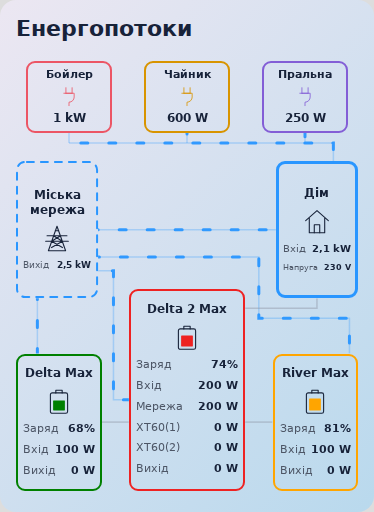
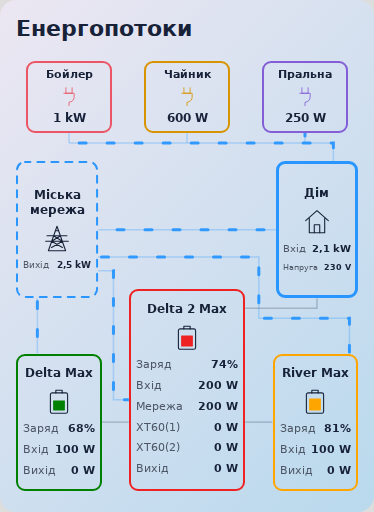
Beta 2.0.5-beta.1: restore grid-to-home flow

diff --git a/suris-ecoflow-flow-card.js b/suris-ecoflow-flow-card.js
@@ -1,8 +1,8 @@
-/* Suris EcoFlow Flow Card v2.0.4 | MIT | No external dependencies. */
+/* Suris EcoFlow Flow Card v2.0.5-beta.1 | MIT | No external dependencies. */
 (() => {
   'use strict';
   const TAG = 'suris-ecoflow-flow-card';
-  const VERSION = '2.0.4';
+  const VERSION = '2.0.5-beta.1';
   const NS = 'http://www.w3.org/2000/svg';
   let cardSequence = 0;
   const DEFAULTS = {
@@ -24,15 +24,15 @@
   Object.assign(TEXT.uk, {
     gridOff: 'Мережі немає',
     gridHint: 'Датчик необов’язковий. Якщо мережі немає, усередині її блоку блимає червоний напис «Мережі немає». Без датчика попередження приховане. Цей датчик не керує потоками.',
-    sourceHint: 'За виходом головної EcoFlow: потужність виходу на дім вище порогу — дім від EcoFlow, нижче або рівна порогу — від мережі. Датчик мережі керує лише червоним написом та не впливає на потоки. Недоступна потужність не визначає джерело.',
-    setup: 'Вибери датчик виходу головної EcoFlow на дім або її загального виходу',
+    sourceHint: 'За виходом головної EcoFlow: потужність виходу на дім вище порогу — дім від EcoFlow, нижче або рівна порогу — від мережі. Датчик мережі керує лише червоним написом та не впливає на потоки. Якщо вихід EcoFlow недоступний, додатна потужність мережі визначає живлення від мережі.',
+    sourceUnknown: 'Недостатньо даних потужності для визначення джерела дому',
     mainHint: 'Для лінії мережа → головна EcoFlow потрібна окрема потужність AC-входу. Для визначення джерела дому за виходом вибери вихід на дім; загальний вихід підходить, лише якщо станція живить тільки дім.'
   });
   Object.assign(TEXT.en, {
     gridOff: 'No grid',
     gridHint: 'The sensor is optional. When grid power is absent, a red No grid message pulses inside its block. Without a sensor the warning stays hidden. This sensor never controls flows.',
-    sourceHint: 'Main EcoFlow output: home feed power above the threshold selects EcoFlow; at or below the threshold selects grid. The grid sensor only controls the red warning and never affects flows. An unavailable output leaves the source unknown.',
-    setup: 'Select the main EcoFlow home feed or total output power sensor',
+    sourceHint: 'Main EcoFlow output: home feed power above the threshold selects EcoFlow; at or below the threshold selects grid. The grid sensor only controls the red warning and never affects flows. If EcoFlow output is unavailable, positive grid power selects the grid.',
+    sourceUnknown: 'Not enough power data to determine the home source',
     mainHint: 'Grid → main EcoFlow requires a separate AC input sensor. For output-based home source detection, select the home feed output; total output is suitable only when the station supplies the home alone.'
   });
   const t = (config) => TEXT[config?.language] || TEXT.uk;
@@ -114,7 +114,7 @@
       if (inputs.length && inputs.every(value => value != null)) main.input = inputs.reduce((sum, value) => sum + value, 0);
     }
     const positive = (value) => value != null && value > c.appearance.threshold;
-    const feedPower = p(c.main.home_feed_power || c.main.output_power);
+    const feedPower = p(c.main.home_feed_power || c.main.output_power), gridPower = p(c.grid.power);
     const gridState = c.grid.available_entity && states[c.grid.available_entity]?.state;
     const availableState = String(c.grid.available_state || 'on');
     const absentState = availableState === 'on' ? 'off' : availableState === 'off' ? 'on' : null;
@@ -122,7 +122,8 @@
     const gridAvailability = !c.grid.available_entity ? 'not_configured'
       : usableGrid && String(gridState) === availableState ? 'available'
         : usableGrid && (absentState ? String(gridState) === absentState : true) ? 'absent' : 'unknown';
-    const source = feedPower != null && feedPower >= 0 ? positive(feedPower) ? 'main' : 'grid' : 'unknown';
+    const source = positive(feedPower) ? 'main'
+      : (feedPower != null && feedPower >= 0) || positive(gridPower) ? 'grid' : 'unknown';
     const gridCharging = [
       p(c.auxiliary_1.grid_charge_power || c.auxiliary_1.input_power),
       p(c.auxiliary_2.grid_charge_power || c.auxiliary_2.input_power),
@@ -133,7 +134,6 @@
     if (!c.home.power && source === 'main') {
       homePower = feedPower; powerOrigin = 'main_output';
     } else if (!c.home.power && source === 'grid') {
-      const gridPower = p(c.grid.power);
       if (gridPower != null && gridPower >= 0) {
         homePower = Math.max(0, gridPower - gridCharging.reduce((sum, value) => sum + Math.max(0, value ?? 0), 0));
         powerOrigin = 'grid_balance';
@@ -173,7 +173,7 @@
     *{box-sizing:border-box}ha-card{display:block;overflow:hidden;background:var(--ha-card-background,var(--card-background-color,#1c1c1c));color:var(--primary-text-color,#e8e8e8);padding:16px;border-radius:var(--ha-card-border-radius,16px)}
     .wrap{container-type:inline-size}h2{font-size:22px;font-weight:600;margin:0 0 8px}.diagram{position:relative;height:clamp(540px,65cqw,720px)}
     .lines{position:absolute;inset:0;width:100%;height:100%;overflow:visible;pointer-events:none}
-    .flow path{fill:none;stroke:var(--divider-color,#60656d);stroke-width:1.5;stroke-linejoin:miter;stroke-linecap:butt;opacity:.40}.flow.active .flow-track{stroke:var(--color);opacity:.28}.flow .flow-dashes{stroke:var(--color);stroke-width:3;stroke-linecap:round;stroke-dasharray:7 21;opacity:.95;visibility:hidden}.flow.active .flow-dashes{visibility:visible}
+    .flow path{fill:none;stroke:color-mix(in srgb,var(--primary-text-color,#9aa0a6) 55%,transparent);stroke-width:1.5;stroke-linejoin:miter;stroke-linecap:butt;opacity:.40}.flow.active .flow-track{stroke:var(--color);opacity:.28}.flow .flow-dashes{stroke:var(--color);stroke-width:3;stroke-linecap:round;stroke-dasharray:7 21;opacity:.95;visibility:hidden}.flow.active .flow-dashes{visibility:visible}
     .node{position:absolute;display:flex;flex-direction:column;justify-content:center;gap:7px;min-width:0;background:transparent;background:color-mix(in srgb,var(--ha-card-background,var(--card-background-color,#1c1c1c)) 8%,transparent);border:2px solid var(--node-color,var(--divider-color,#60656d));border-radius:12px;padding:12px 10px;z-index:1;min-height:140px;height:auto}
     .node.supplying{border-color:transparent}.node-border{position:absolute;overflow:visible;pointer-events:none;display:none;z-index:2}.node-border.active{display:block}.node-border path{fill:none;stroke:var(--node-color);stroke-width:2;stroke-linecap:round;stroke-dasharray:7 7}
     .node h3{font-size:clamp(12px,1.9cqw,20px);line-height:1.25;text-align:center;margin:0;font-weight:600;overflow-wrap:anywhere}.node .icon{display:flex;justify-content:center;height:clamp(30px,5cqw,56px);margin:4px 0}.icon svg{height:100%;width:64px;fill:none;stroke:currentColor;stroke-width:2.4;stroke-linecap:round;stroke-linejoin:round}.icon .battery-fill{fill:var(--node-color,var(--flow-main));stroke:none}
@@ -321,8 +321,8 @@
         battery.querySelector('.battery-unknown').style.display = known ? 'none' : '';
       }
       const status = this.shadowRoot.querySelector('.status');
-      status.textContent = data.home.source === 'unknown' ? text.setup : '';
-      const homeColor = data.home.source === 'unknown' ? 'var(--divider-color,#60656d)' : `var(--flow-${data.home.source})`;
+      status.textContent = data.home.source === 'unknown' ? text.sourceUnknown : '';
+      const homeColor = data.home.source === 'unknown' ? 'color-mix(in srgb,var(--primary-text-color,#9aa0a6) 55%,transparent)' : `var(--flow-${data.home.source})`;
       this.style.setProperty('--flow-home', homeColor); this._nodes.home.style.setProperty('--node-color', homeColor); this._borders.home.style.setProperty('--node-color', homeColor);
       this._renderConsumers(); this._drawPaths(); this._syncFlows();
     }

diff --git a/demo.html b/demo.html
@@ -1,5 +1,5 @@
 <!doctype html>
-<html lang="uk"><head><meta charset="utf-8"><meta name="viewport" content="width=device-width,initial-scale=1"><title>Suris EcoFlow Flow Card 2.0.4 — Demo</title>
+<html lang="uk"><head><meta charset="utf-8"><meta name="viewport" content="width=device-width,initial-scale=1"><title>Suris EcoFlow Flow Card 2.0.5-beta.1 — Demo</title>
 <style>body{margin:20px auto;padding:0 12px;max-width:1060px;background:#111;color:#eee;font:16px system-ui;--ha-card-background:#1c1c1c;--primary-text-color:#eee;--secondary-text-color:#aaa;--divider-color:#535861}nav{display:flex;gap:8px;flex-wrap:wrap;margin:16px 0}button{background:#222;border:1px solid #666;color:#eee;padding:10px 14px;border-radius:8px;cursor:pointer}button:focus-visible{outline:2px solid #27d9d5}p{color:#aaa;font-size:13px}</style>
 </head><body><nav><button data-mode="main">Дім від EcoFlow</button><button data-mode="aux3">Передача EcoFlow №3</button><button data-mode="grid">Дім від мережі</button><button data-mode="charging">Заряджання від мережі</button><button data-mode="replace">Заміна сильнішим приладом</button><button data-mode="single">Один ряд приладів</button><button data-mode="idle">Прилади вимкнені</button><button data-mode="unknown">Джерело недоступне</button></nav><suris-ecoflow-flow-card></suris-ecoflow-flow-card><p>Демонстраційні показники. Для встановлення відкрий README.md.</p>
 <script src="./suris-ecoflow-flow-card.js"></script><script>

diff --git a/README.md b/README.md
@@ -1,10 +1,14 @@
-# Suris EcoFlow Flow Card 2.0.4
+# Suris EcoFlow Flow Card 2.0.5-beta.1
 
-[English guide](README_EN.md) · [Завантажити 2.0.4](https://github.com/Suris2009/suris-ecoflow-flow-card/releases/tag/v2.0.4) · [Попередня 0.1.12](https://github.com/Suris2009/suris-ecoflow-flow-card/releases/tag/v0.1.12)
+[English guide](README_EN.md) · [Завантажити 2.0.5-beta.1](https://github.com/Suris2009/suris-ecoflow-flow-card/releases/tag/v2.0.5-beta.1) · [Попередня 0.1.12](https://github.com/Suris2009/suris-ecoflow-flow-card/releases/tag/v0.1.12)
 
-**Стабільний випуск 2.0.4.** Оновлення з версії 1 та бет версії 2 зберігає налаштування картки.
+**Бета 2.0.5-beta.1 для перевірки потоків при недоступних станціях.** Оновлення з версії 1 та бет версії 2 зберігає налаштування картки.
 
 Картка Home Assistant із візуальним редактором сутностей. Міська мережа ліворуч, дім праворуч, головна EcoFlow знизу між двома допоміжними станціями. Зверху — до шести активних індивідуальних споживачів із найбільшою потужністю, без гортання. Висота автоматично зменшується, коли один або обидва ряди не потрібні. Значення потужності містяться у квадратних блоках; на лініях лише рух потоку. Працює локально, без сторонніх бібліотек, CDN та збірки.
+
+У HACS відкрий картку → ⋮ → Повторно завантажити, увімкни показ бета-версій і вибери **2.0.5-beta.1**. Після встановлення онови інтерфейс. Випуск 2.0.4 знято зі стабільних через відсутній потік від мережі при недоступній головній EcoFlow.
+
+![Мережа живить дім, головна EcoFlow недоступна](preview-offline-grid.png)
 
 ## Що потрібно перед встановленням
 
@@ -40,7 +44,7 @@
 
 1. Відкрий **HACS → ⋮ → Користувацькі репозиторії**.
 2. Додай `https://github.com/Suris2009/suris-ecoflow-flow-card`, тип **Dashboard / Панель огляду** (у старих версіях — **Lovelace / Plugin**).
-3. Знайди **Suris EcoFlow Flow Card** та завантаж **2.0.4**. Якщо картка вже встановлена, відкрий її в HACS і встанови доступне оновлення.
+3. Знайди **Suris EcoFlow Flow Card** та завантаж **2.0.5-beta.1**. Якщо картка вже встановлена, відкрий її в HACS і встанови доступне оновлення.
 4. Онови сторінку Home Assistant. Якщо ресурс не додано автоматично, додай `/hacsfiles/suris-ecoflow-flow-card/suris-ecoflow-flow-card.js` як **JavaScript module** у ресурсах панелей огляду.
 5. На панелі натисни **Редагувати → Додати картку → Suris EcoFlow Flow Card** і вибери сутності у візуальному редакторі.
 
@@ -50,7 +54,7 @@
 
 1. Скопіюй `suris-ecoflow-flow-card.js` до папки `www` у каталозі конфігурації Home Assistant. Через Studio Code Server це зазвичай `/config/www`; в окремих версіях середовища каталог може відображатися як `/homeassistant/www`. Використовуй той каталог, у якому розташований `configuration.yaml`. Можна скористатися Samba або завантаженням файлу в редакторі. Якщо папку `www` щойно створено вперше, перезапусти Home Assistant.
 2. Відкрий **Налаштування → Панелі огляду → ⋮ → Ресурси → Додати ресурс**. Якщо «Ресурси» не видно, увімкни розширений режим у профілі користувача.
-3. URL: `/local/suris-ecoflow-flow-card.js?v=2.0.4`. Тип: **JavaScript module**.
+3. URL: `/local/suris-ecoflow-flow-card.js?v=2.0.5-beta.1`. Тип: **JavaScript module**.
 4. Онови сторінку Home Assistant. За потреби очисть кеш інтерфейсу в застосунку.
 5. На панелі огляду натисни **Редагувати → Додати картку**, знайди **Suris EcoFlow Flow Card**.
 6. Вибери сутності у візуальному редакторі. YAML не потрібен.
@@ -91,7 +95,7 @@ consumers:
 
 ## Оновлення з версії 1 або бети та повернення назад
 
-Онови ресурс картки до **2.0.4**, потім перезавантаж інтерфейс Home Assistant. Тип `custom:suris-ecoflow-flow-card` не змінюється; назви, сутності, кольори та швидкість станцій зберігаються. Не створюй нову картку і не додавай другий JS-ресурс. Після оновлення з версії 1 додай прилади через редактор. Якщо оновлюєшся з бети версії 2, уже налаштовані прилади також зберігаються.
+Онови ресурс картки до **2.0.5-beta.1**, потім перезавантаж інтерфейс Home Assistant. Тип `custom:suris-ecoflow-flow-card` не змінюється; назви, сутності, кольори та швидкість станцій зберігаються. Не створюй нову картку і не додавай другий JS-ресурс. Після оновлення з версії 1 додай прилади через редактор. Якщо оновлюєшся з бети версії 2, уже налаштовані прилади також зберігаються.
 
 Щоб повернутися до попередньої версії 1, збережи копію YAML картки й установи **0.1.12** через HACS або заміни той самий JS-файл файлом версії 1. Перезавантаж інтерфейс. Версія 1 не відображає список споживачів; налаштування станцій сумісні.
 
@@ -106,7 +110,7 @@ consumers:
 
 Щоб показувати напругу дому, вибери **Напруга дому (необов’язково)** у розділі **Дім** візуального редактора. Рядок **Напруга** з’явиться під **Вхід**, у V. Без вибраного датчика рядок прихований; недоступне значення показується як `—`. Напруга береться з цього датчика, а не обчислюється з даних мережі чи батареї. У YAML: `home.voltage: sensor.home_voltage`.
 
-Джерело дому автоматично визначається за виходом головної EcoFlow, незалежно від датчика мережі. Вихід на дім вище порогу потоку означає живлення від EcoFlow; доступне невід’ємне значення нижче або рівне порогу — від мережі. Якщо станція живить також інші навантаження, вибери окрему **Потужність виходу на дім** у блоці головної EcoFlow. Інакше використовується її загальний вихід. Недоступна, некоректна або від’ємна потужність залишає джерело невідомим. Це визначення за потужністю, а не вимірювання стану перемикача.
+Джерело дому автоматично визначається за виходом головної EcoFlow, незалежно від датчика мережі. Вихід на дім вище порогу потоку означає живлення від EcoFlow; доступне невід’ємне значення нижче або рівне порогу — від мережі. Якщо станція живить також інші навантаження, вибери окрему **Потужність виходу на дім** у блоці головної EcoFlow. Інакше використовується її загальний вихід. Якщо вихід станції недоступний, некоректний або від’ємний, а потужність мережі перевищує поріг, джерело визначається як мережа. Якщо немає придатних даних обох джерел, джерело залишається невідомим. Це визначення за потужністю, а не вимірювання стану перемикача.
 
 Після оновлення наявні конфігурації автоматично використовують потужність виходу головної EcoFlow. Перемикати режим вручну не потрібно. Старі поля `home.source_mode`, `home.source_entity`, `home.grid_state` та `home.main_state` ігноруються; вибір режиму прибрано з редактора.
 

diff --git a/README_EN.md b/README_EN.md
@@ -1,10 +1,14 @@
-# Suris EcoFlow Flow Card 2.0.4
+# Suris EcoFlow Flow Card 2.0.5-beta.1
 
-[Українська інструкція](README.md) · [Download 2.0.4](https://github.com/Suris2009/suris-ecoflow-flow-card/releases/tag/v2.0.4) · [Previous 0.1.12](https://github.com/Suris2009/suris-ecoflow-flow-card/releases/tag/v0.1.12)
+[Українська інструкція](README.md) · [Download 2.0.5-beta.1](https://github.com/Suris2009/suris-ecoflow-flow-card/releases/tag/v2.0.5-beta.1) · [Previous 0.1.12](https://github.com/Suris2009/suris-ecoflow-flow-card/releases/tag/v0.1.12)
 
-**Stable release 2.0.4.** Upgrading from version 1 or a version 2 beta preserves the card configuration.
+**Beta 2.0.5-beta.1 for testing flows with unavailable stations.** Upgrading from version 1 or a version 2 beta preserves the card configuration.
 
 A Home Assistant dashboard card with a visual entity editor. City grid is on the left, home on the right, and the main EcoFlow sits between the two auxiliary stations at the bottom. Up to six active home consumers appear above them, without scrolling. The card automatically shrinks when one or both consumer rows are unused. Power readings stay inside the blocks; lines show only moving flow.
+
+In HACS open the card → ⋮ → Redownload, enable beta versions and choose **2.0.5-beta.1**. Reload the frontend after installation. Release 2.0.4 has been withdrawn from stable releases because it hid the grid-to-home flow when the main EcoFlow was unavailable.
+
+![Grid supplies Home while the main EcoFlow is unavailable](preview-offline-grid.png)
 
 This is a **dashboard card**, not a device integration. Install your EcoFlow and meter integrations first so their entities are available in Home Assistant. The card displays readings; it does not switch relays, outputs or appliances. It runs locally without external libraries, CDN or a build step.
 
@@ -28,7 +32,7 @@ As devices switch on or off, the card resizes automatically. A single row moves 
 
 1. Open **HACS → ⋮ → Custom repositories**.
 2. Add `https://github.com/Suris2009/suris-ecoflow-flow-card`, category **Dashboard** (Lovelace / Plugin in older versions).
-3. Download **2.0.4**. If the card is already installed, open its HACS entry and install the available update.
+3. Download **2.0.5-beta.1**. If the card is already installed, open its HACS entry and install the available update.
 4. Reload the Home Assistant frontend. If HACS did not add the resource, add `/hacsfiles/suris-ecoflow-flow-card/suris-ecoflow-flow-card.js` as a **JavaScript module** in dashboard resources.
 5. Open **Edit dashboard → Add card → Suris EcoFlow Flow Card**. Choose your entities in the visual editor. YAML is optional.
 
@@ -36,9 +40,9 @@ This repository is added as a custom HACS repository; inclusion in the default c
 
 ## Manual installation
 
-1. Download `suris-ecoflow-flow-card.js` from the 2.0.4 release. Put it in the `www` folder beside your Home Assistant `configuration.yaml`, commonly `/config/www`. If you just created `www` for the first time, restart Home Assistant.
+1. Download `suris-ecoflow-flow-card.js` from the 2.0.5-beta.1 release. Put it in the `www` folder beside your Home Assistant `configuration.yaml`, commonly `/config/www`. If you just created `www` for the first time, restart Home Assistant.
 2. Open **Settings → Dashboards → ⋮ → Resources → Add resource**. Enable Advanced mode in your user profile if Resources is hidden.
-3. URL: `/local/suris-ecoflow-flow-card.js?v=2.0.4`; type: **JavaScript module**.
+3. URL: `/local/suris-ecoflow-flow-card.js?v=2.0.5-beta.1`; type: **JavaScript module**.
 4. Reload the frontend, then add and configure the card through the visual editor. Clear the frontend cache if the old version remains visible.
 
 ## Configure the stations and home
@@ -52,7 +56,7 @@ This repository is added as a custom HACS repository; inclusion in the default c
 
 To show the house voltage, select **Home voltage (optional)** in the **Home** section of the visual editor. The **Voltage** row appears below **Input**, in V. Without a selected sensor the row stays hidden; an unavailable reading shows `—`. Voltage is read from that sensor, not inferred from the grid or battery. In YAML, set `home.voltage: sensor.home_voltage`.
 
-The home source is automatically selected from main EcoFlow output, independently of the grid status sensor. Output power above the flow threshold selects main EcoFlow; a valid non-negative reading at or below the threshold selects grid. Select the dedicated **Output power to home** in Main EcoFlow when other loads use the station; otherwise its total output is used. An unavailable, invalid or negative output leaves the home source unknown and stops both home supply lines. This is an inference from output power, not a measurement of the transfer switch.
+The home source is automatically selected from main EcoFlow output, independently of the grid status sensor. Output power above the flow threshold selects main EcoFlow; a valid non-negative reading at or below the threshold selects grid. Select the dedicated **Output power to home** in Main EcoFlow when other loads use the station; otherwise its total output is used. When station output is unavailable, invalid or negative, grid power above the threshold selects grid. With no usable power data from either source, the home source remains unknown. This is an inference from output power, not a measurement of the transfer switch.
 
 Existing configurations automatically use main EcoFlow output after updating; no manual mode change is needed. Legacy `home.source_mode`, `home.source_entity`, `home.grid_state` and `home.main_state` fields are ignored. The source-mode selector has been removed.
 
@@ -120,7 +124,7 @@ All power rows stay on one line. Values below 1000 W use W; values from 1000 W u
 
 ## Upgrade from version 1 or a beta, or roll back
 
-Update the same resource to **2.0.4** and reload the frontend. The card type remains `custom:suris-ecoflow-flow-card`. Existing station entities, names, colors and flow settings are retained. When upgrading from version 1, add consumers in the editor; none are added automatically. Existing consumer settings from version 2 betas are retained. Without active consumers, the card shrinks automatically. Do not add a duplicate resource or recreate the card.
+Update the same resource to **2.0.5-beta.1** and reload the frontend. The card type remains `custom:suris-ecoflow-flow-card`. Existing station entities, names, colors and flow settings are retained. When upgrading from version 1, add consumers in the editor; none are added automatically. Existing consumer settings from version 2 betas are retained. Without active consumers, the card shrinks automatically. Do not add a duplicate resource or recreate the card.
 
 To roll back, save a copy of the card YAML, install **0.1.12** through HACS or replace the same JS file with the version 1 asset, and reload the frontend. Version 1 does not display consumers; station settings remain compatible.
 

diff --git a/CHANGELOG.md b/CHANGELOG.md
@@ -1,6 +1,15 @@
 # Changelog
 
-## 2.0.4 — Stable
+## 2.0.5-beta.1 — Pre-release
+
+- Restore the grid-to-home flow when the main station is unavailable and grid power is above the flow threshold. Positive main output keeps priority; the grid availability sensor still controls only its warning.
+- Verify the reported 258 W grid, 221 V Home and offline main-station scenario, including visible moving dashes, charging subtraction and mobile widths.
+- Keep the neutral Home outline and inactive tracks visible in themes with a white divider color; report insufficient power data instead of incorrectly prompting sensor selection.
+- Publish as a beta for real Home Assistant testing. Withdraw 2.0.4 from stable releases.
+
+## 2.0.4 — Withdrawn
+
+Withdrawn from stable releases because the grid-to-home flow could disappear when the main station was unavailable. Use 2.0.5-beta.1 to test the correction.
 
 - Remove grid availability from all flow decisions, including existing configurations and saved legacy source modes. The sensor only controls the red outage warning inside the city grid block.
 - Determine Home supply from the main station home feed or total output; determine station charging and transfer flows from their own power readings.
